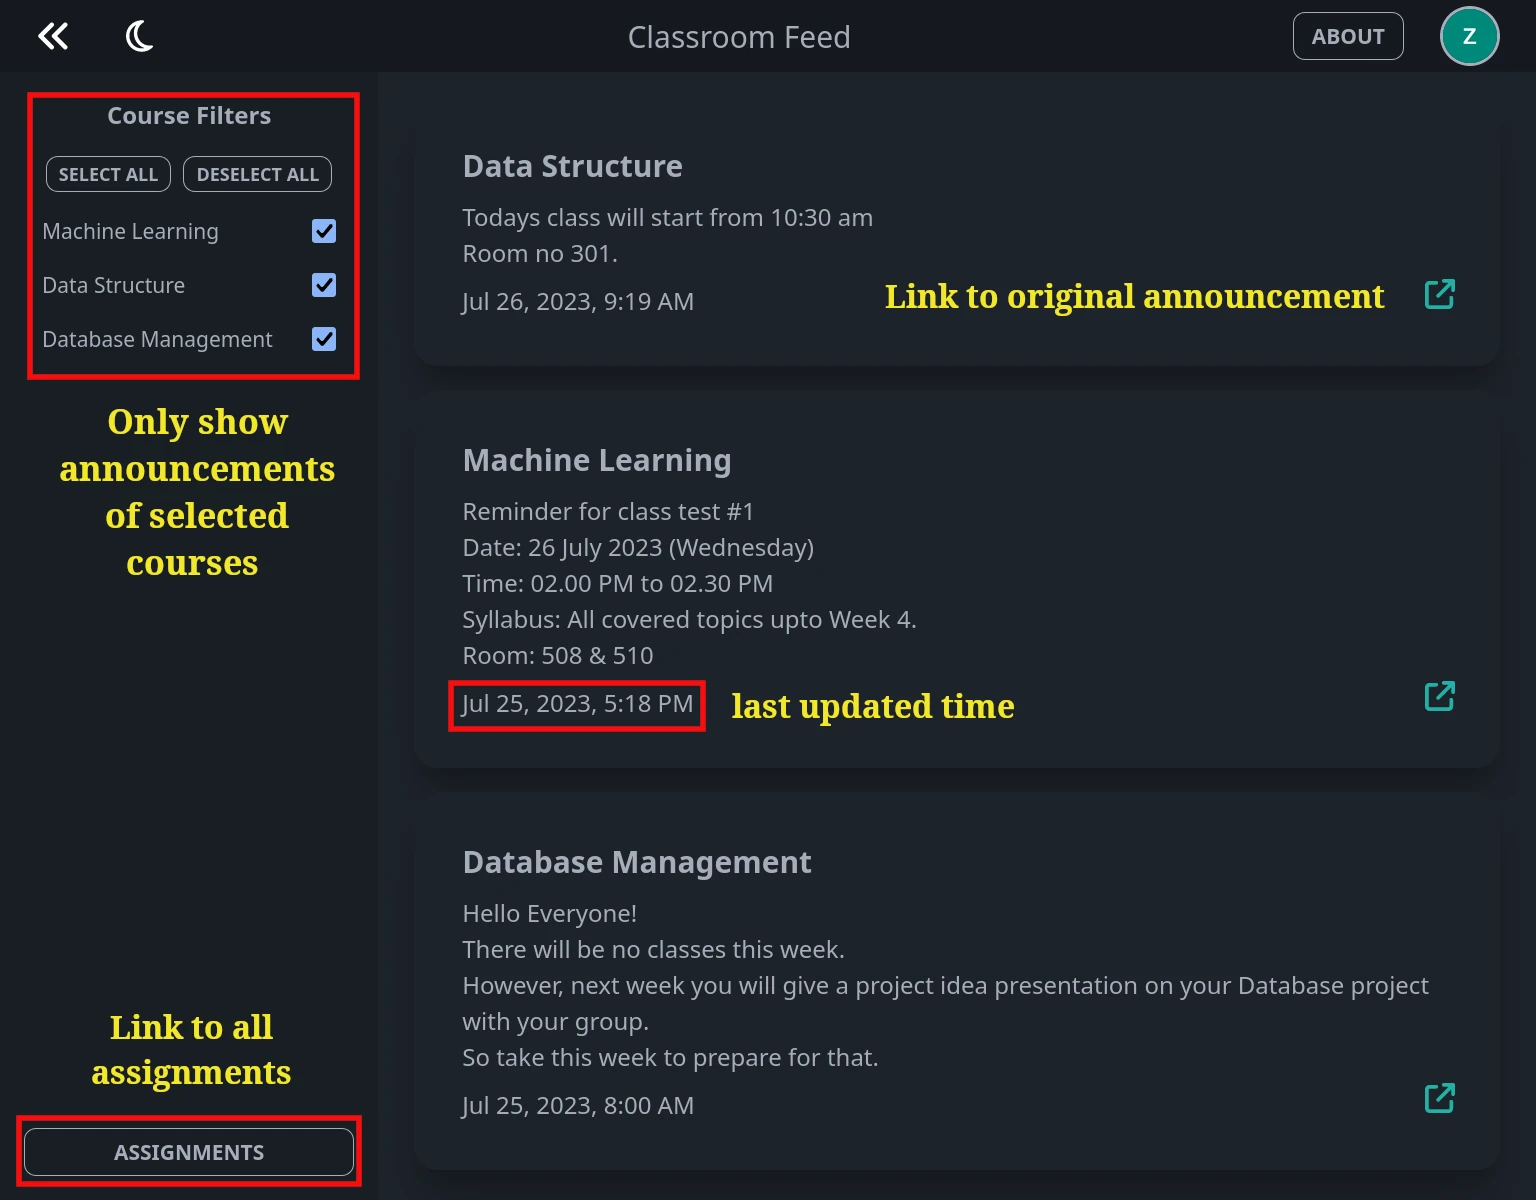
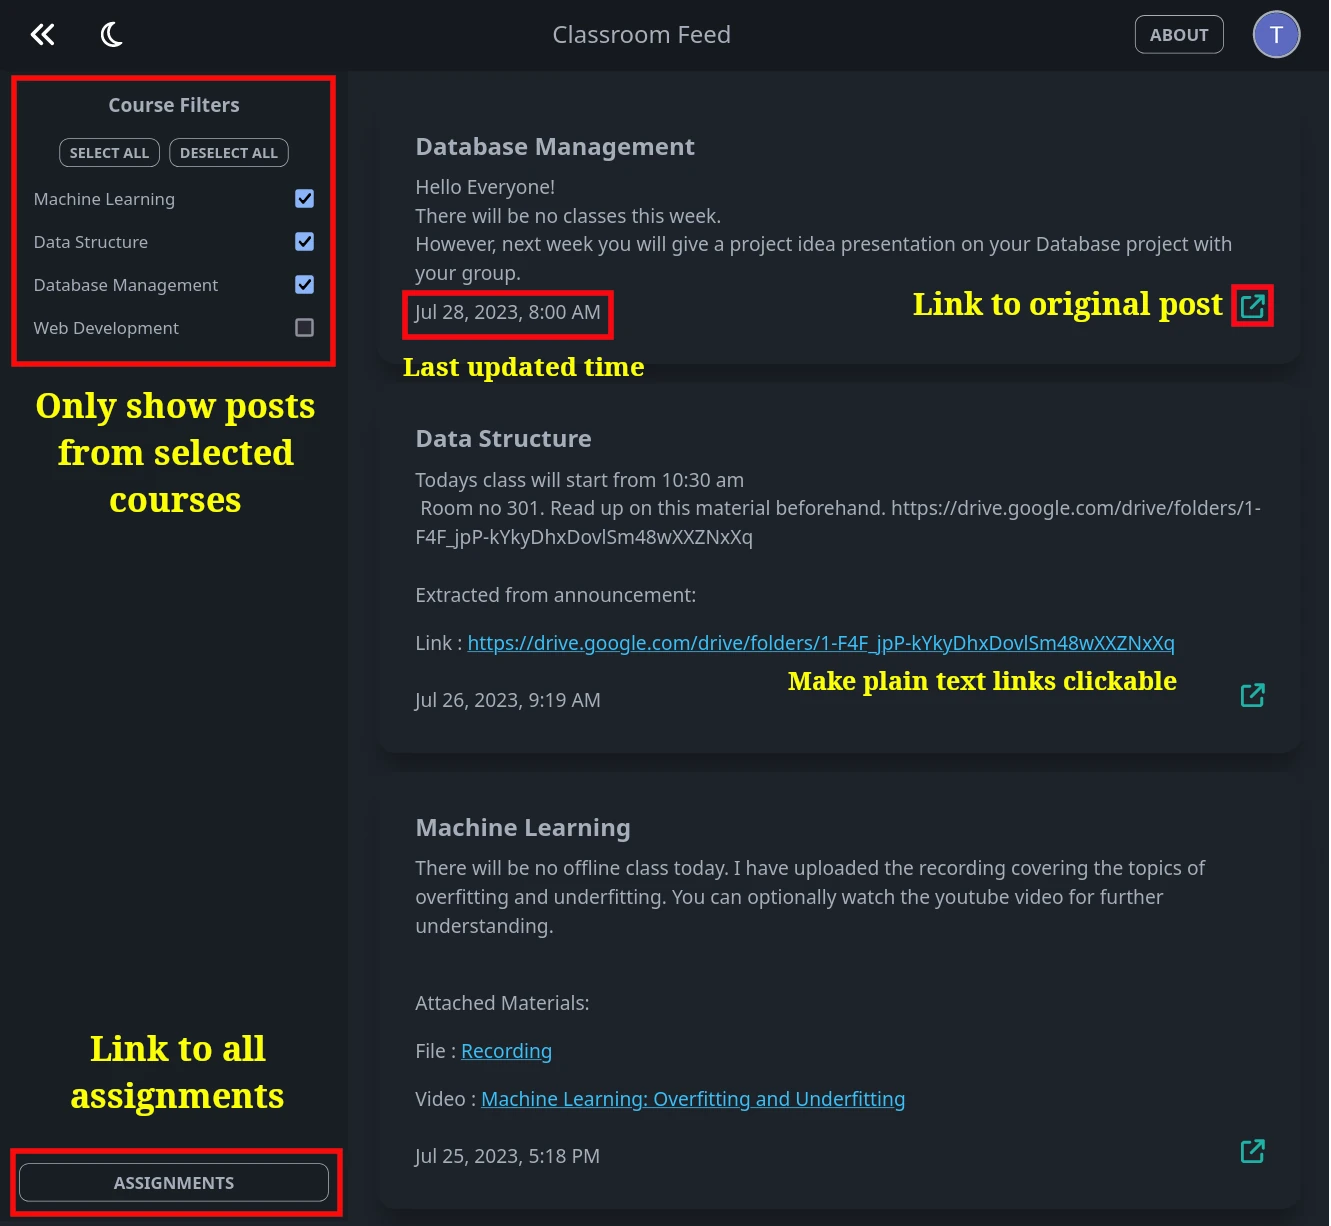
updated page-shot

diff --git a/src/lib/server/data.ts b/src/lib/server/data.ts
@@ -187,9 +187,21 @@ export const data: { announcements: Post[]; courses: Course[] } = {
     courses,
     announcements: [
         {
+            courseId: "5",
+            id: "5-1",
+            text: "Hello Everyone!\nThere will be no classes this week.\nHowever, next week you will give a project idea presentation on your Database project with your group.",
+            state: "PUBLISHED",
+            alternateLink:
+                "https://classroom.google.com/c/course-5/announcement-1",
+            creationTime: "2023-07-22T09:00:00.000Z",
+            updateTime: "2023-07-28T02:00:00.000Z",
+            assigneeMode: "ALL_STUDENTS",
+            creatorUserId: "user-1",
+        },
+        {
             courseId: "1",
             id: "1-1",
-            text: "Reminder for class test #1\nDate: 26 July 2023 (Wednesday)\nTime: 02.00 PM to 02.30 PM\nSyllabus: All covered topics upto Week 4.\nRoom: 508 & 510",
+            text: "There will be no offline class today. I have uploaded the recording covering the topics of overfitting and underfitting. You can optionally watch the youtube video for further understanding.",
             state: "PUBLISHED",
             alternateLink:
                 "https://classroom.google.com/c/NjE2NjI4MTA2NzEy/p/NjE2NjI5OTIxNDAz",
@@ -197,6 +209,24 @@ export const data: { announcements: Post[]; courses: Course[] } = {
             updateTime: "2023-07-25T11:18:02.941Z",
             assigneeMode: "ALL_STUDENTS",
             creatorUserId: "102228857692621657049",
+            materials: [
+                {
+                    driveFile: {
+                        driveFile: {
+                            title: "Recordings",
+                            alternateLink:
+                                "https://drive.google.com/drive/folders/1-F4F_jpP-kYkyDhxDovlSm48wXXZNxXq",
+                        },
+                    },
+                },
+                {
+                    youtubeVideo: {
+                        title: "Machine Learning: Overfitting and Underfitting",
+                        alternateLink:
+                            "https://drive.google.com/drive/folders/1-F4F_jpP-kYkyDhxDovlSm48wXXZNxXq",
+                    },
+                },
+            ],
         },
         {
             courseId: "1",
@@ -309,7 +339,7 @@ export const data: { announcements: Post[]; courses: Course[] } = {
         {
             courseId: "2",
             id: "2-1",
-            text: "Todays class will start from 10:30 am\n Room no 301.",
+            text: "Todays class will start from 10:30 am\n Room no 301. Read up on this material beforehand. https://drive.google.com/drive/folders/1-F4F_jpP-kYkyDhxDovlSm48wXXZNxXq",
             state: "PUBLISHED",
             alternateLink:
                 "https://classroom.google.com/c/NjE2NjI4MTA2NzEy/p/NjE2NjI5OTIxNDAz",
@@ -581,18 +611,6 @@ export const data: { announcements: Post[]; courses: Course[] } = {
             updateTime: "2023-08-11T11:30:00.000Z",
             assigneeMode: "ALL_STUDENTS",
             creatorUserId: "user-7",
-        },
-        {
-            courseId: "5",
-            id: "5-1",
-            text: "Hello Everyone!\n There will be no classes this week.\n However, next week you will give a project idea presentation on your Database project with your group.\n So take this week to prepare for that.\n",
-            state: "PUBLISHED",
-            alternateLink:
-                "https://classroom.google.com/c/course-5/announcement-1",
-            creationTime: "2023-07-22T09:00:00.000Z",
-            updateTime: "2023-07-25T02:00:00.000Z",
-            assigneeMode: "ALL_STUDENTS",
-            creatorUserId: "user-1",
         },
         {
             courseId: "5",

diff --git a/src/lib/server/helpers.ts b/src/lib/server/helpers.ts
@@ -12,7 +12,7 @@ export function get_courses() {
 }
 
 export async function fetch_courses() {
-    const fetched_courses = get_courses().slice(0, 3)
+    const fetched_courses = get_courses().slice(0, 4)
     const courses: any = {}
 
     fetched_courses.forEach((course) => (courses[course.id] = course))
